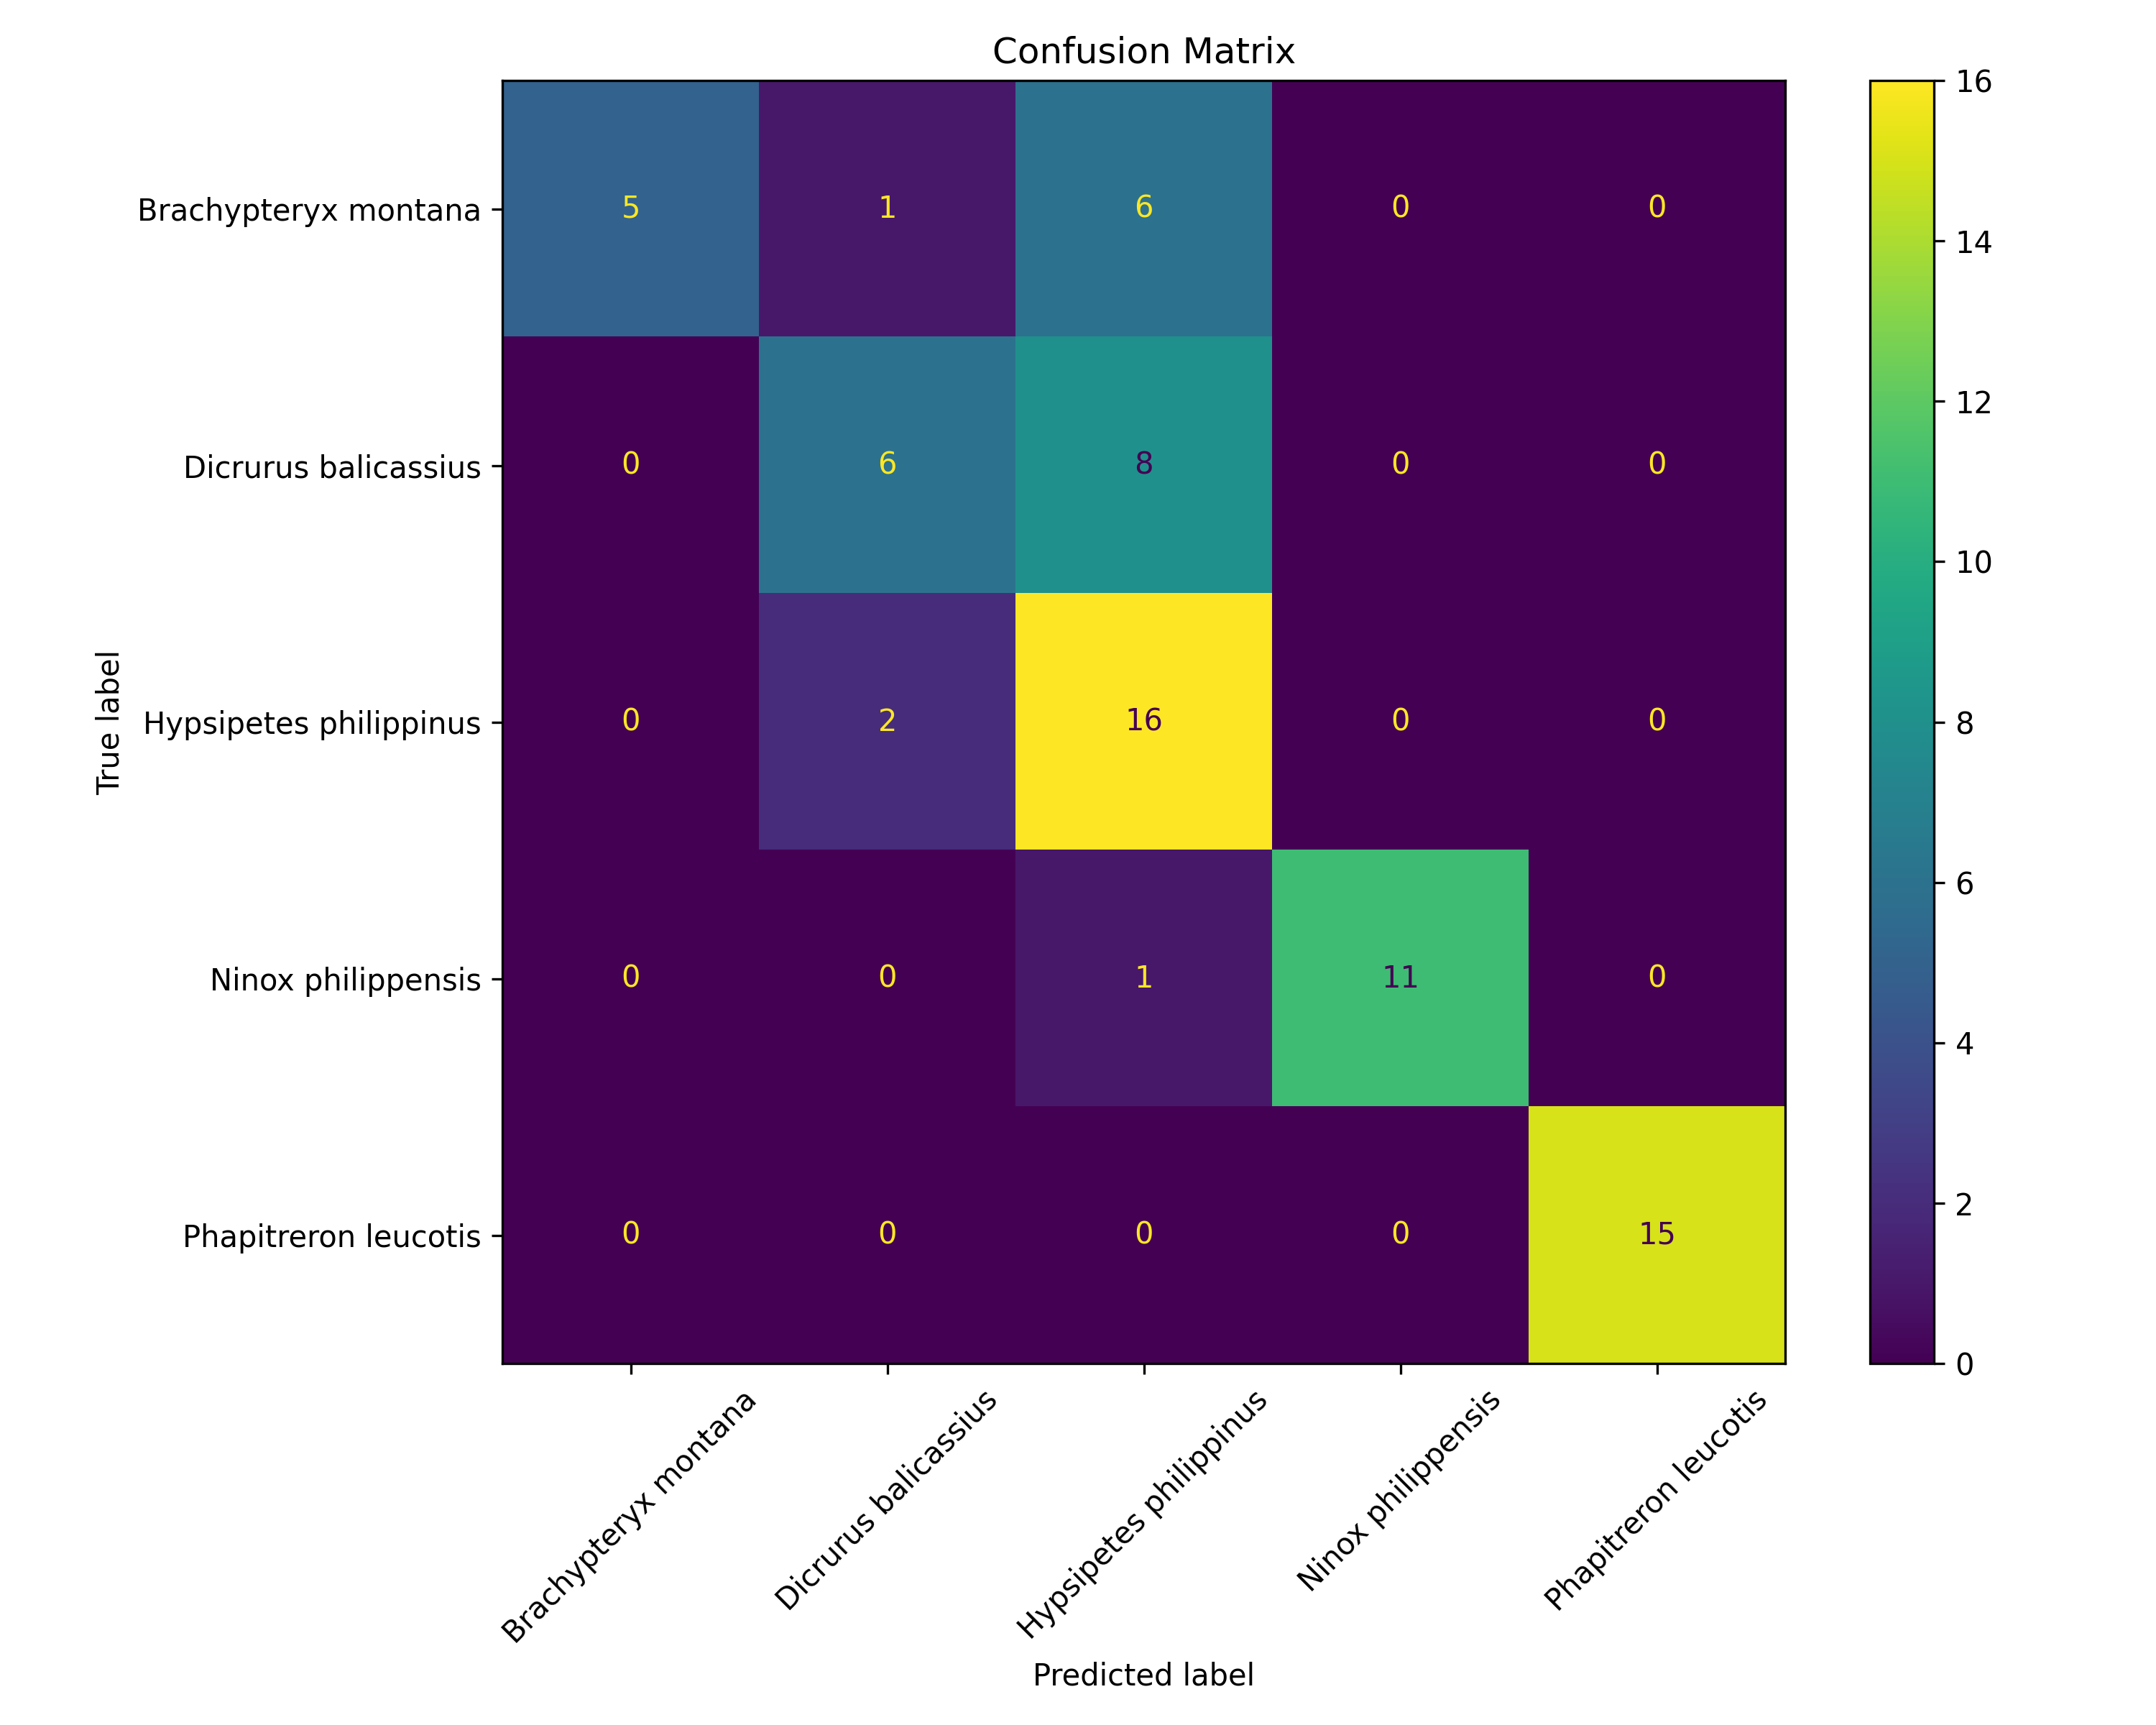
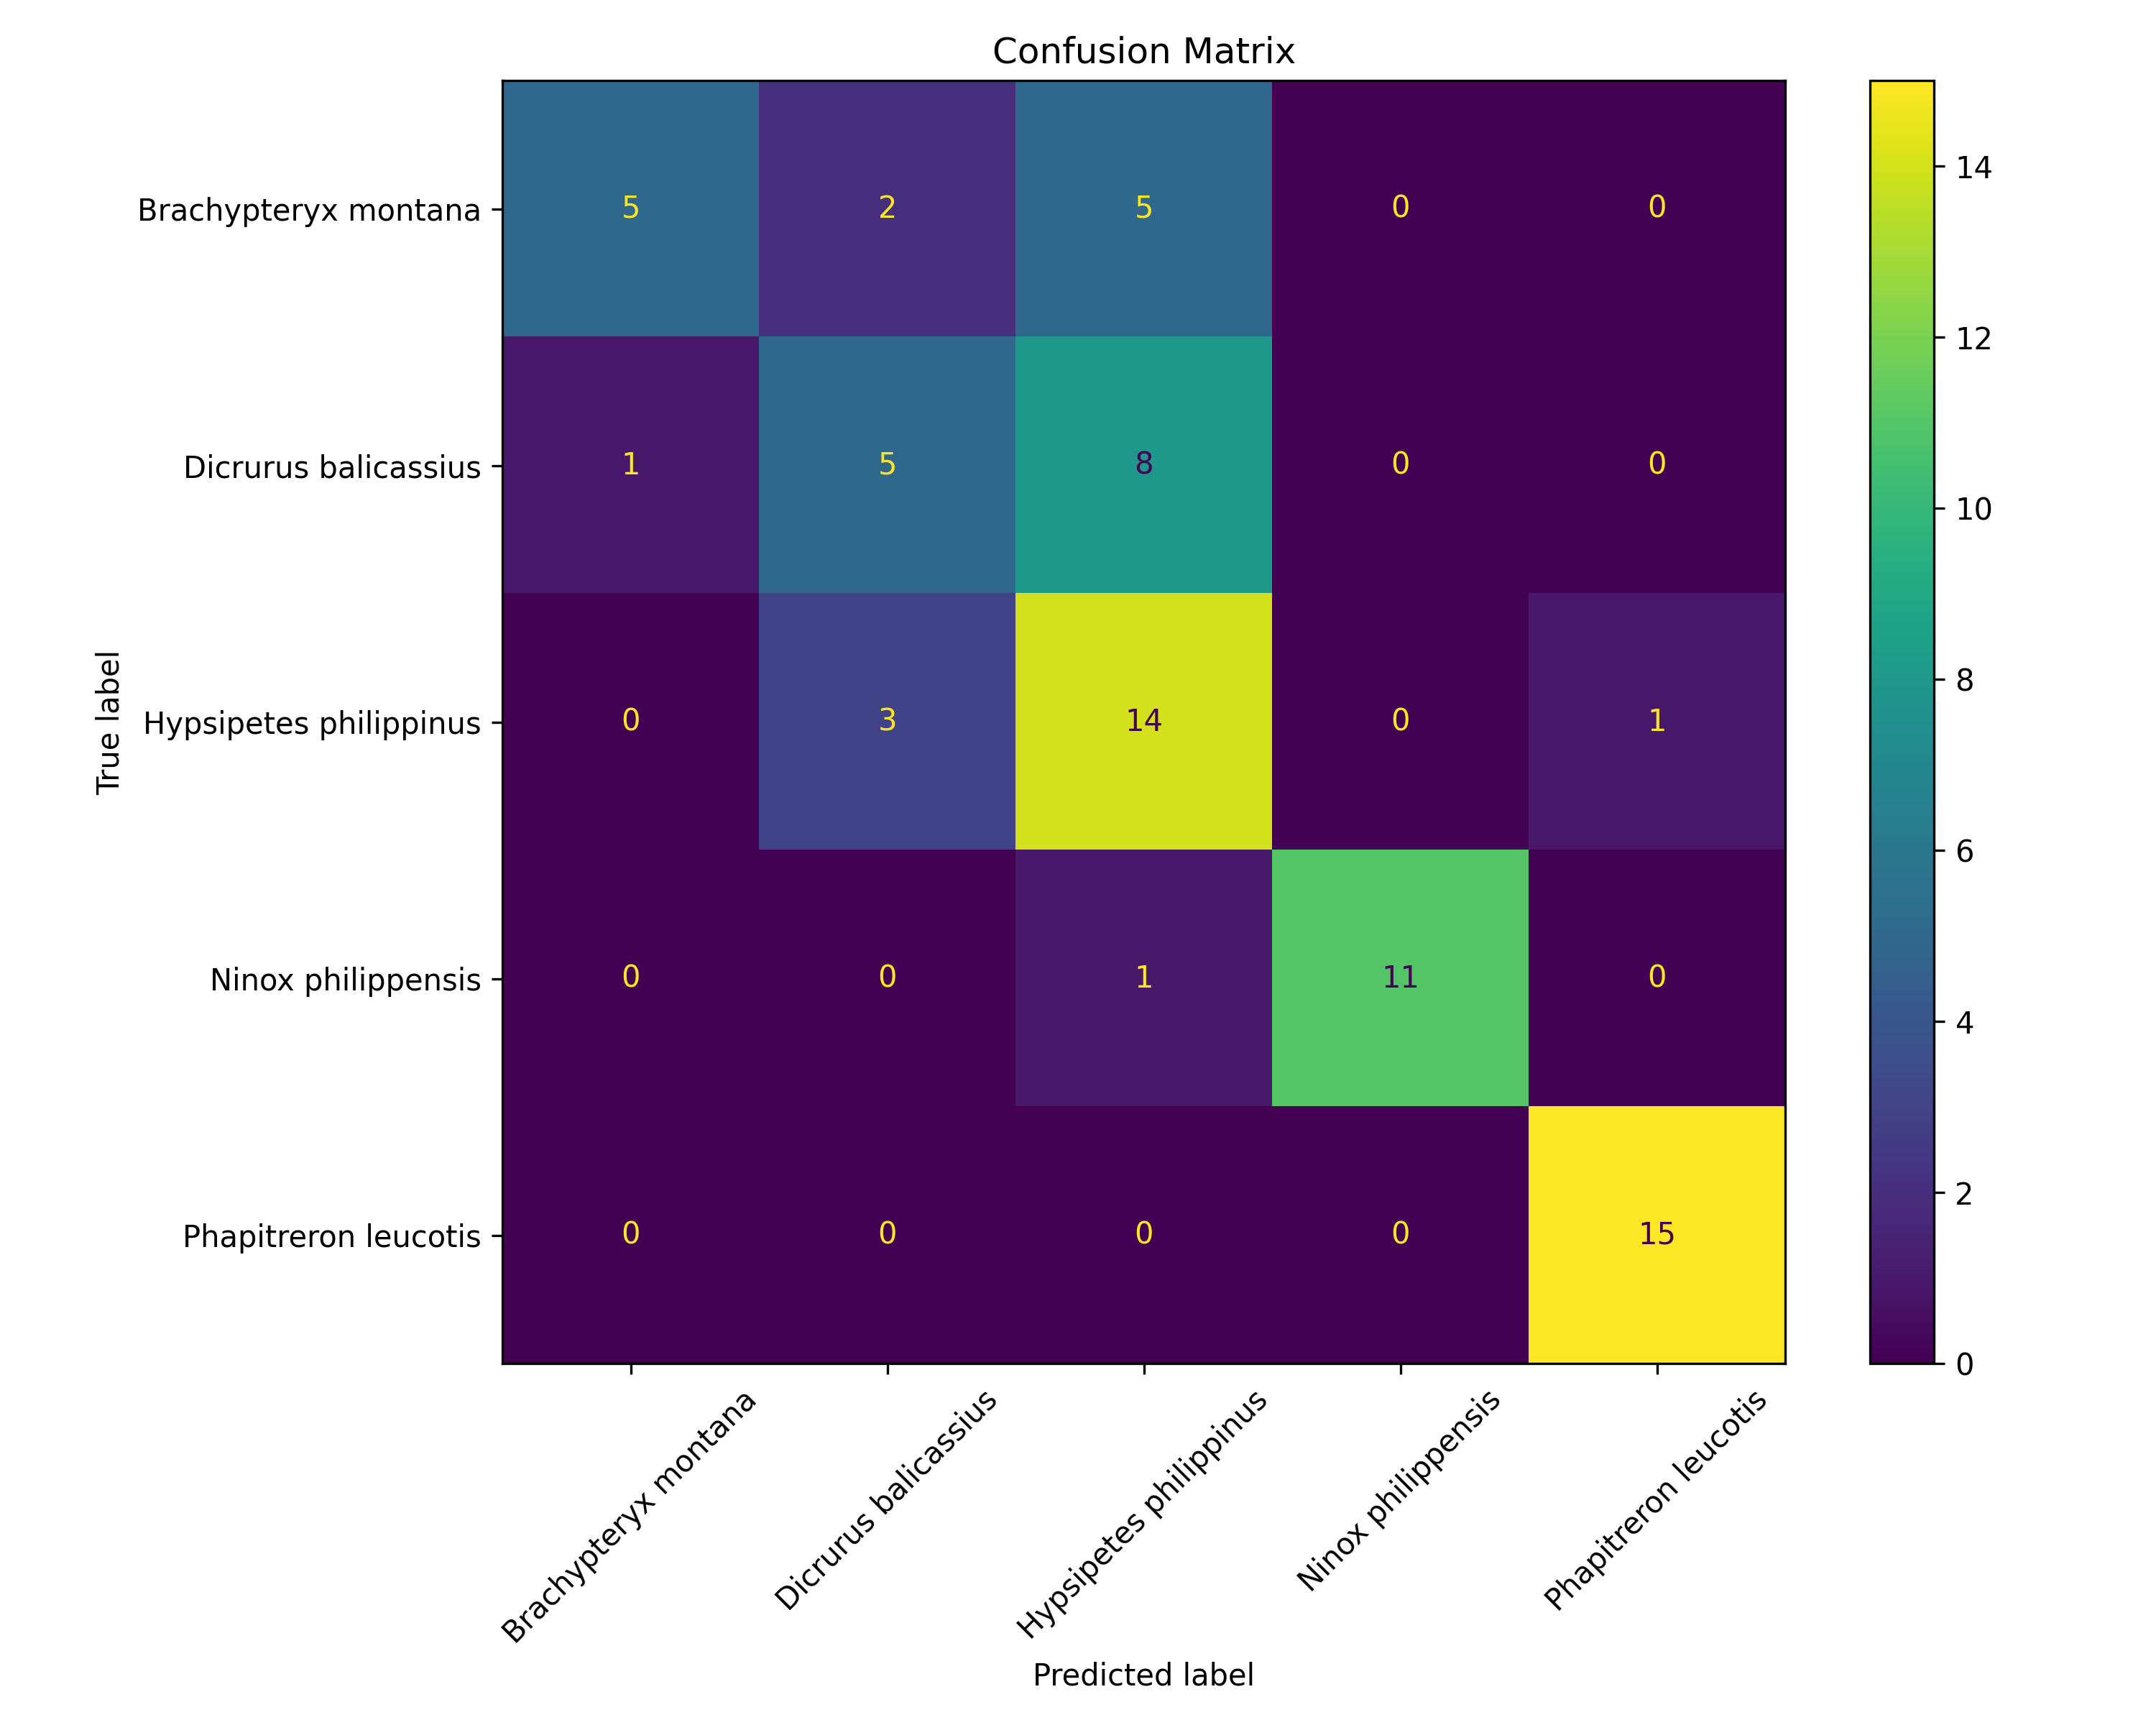
added untuned model results

Changed region(s): [[0.682, 0.625, 0.837, 0.8125], [0.465, 0.3438, 0.589, 0.5]]

diff --git a/paper/main.tex b/paper/main.tex
@@ -7,6 +7,7 @@
 \usepackage{booktabs}
 \usepackage{multirow}
 
+
 \begin{document}
 
 \title{Classification of Selected Philippine Bird Species Using Acoustic Features and Classical Machine Learning}
@@ -50,7 +51,7 @@ This study builds on previous work by applying classical machine learning models
 
 \section{Methodology}
 
-The study followed a structured machine learning workflow consisting of dataset collection, pre-processing, feature extraction, model training, hyperparameter tuning, segment-level extraction, added time-domain features, majority voting, and final evaluation by comparing the performance between different models.
+The study followed a structured machine learning workflow consisting of dataset collection, pre-processing, feature extraction, model training, hyperparameter tuning, segment-level extraction, localized feature extraction, majority voting, and final evaluation by comparing the performance between different models.
 
 \subsection{Dataset Collection}
 
@@ -89,12 +90,11 @@ Performance was measured using accuracy, macro precision, macro recall, macro F1
 
 \subsection{Segment-Level Extraction}
 
-Inspired by syllable-based segmentation approaches in previous bird recognition studies \cite{fagerlund2007}, the processed audio clips were further divided into smaller segment units prior to feature extraction. Specifically, each processed 10-second audio clips were divided into overlapping segments of 5 seconds with a 2.5 second overlap. This approach allowed multiple local feature vectors to be extracted from each recording while preserving recording-level grouping during evaluation.. Furthermore, each segment was treated as an independent training sample with the same species label as the original recording.
+Inspired by syllable-based segmentation approaches in previous bird recognition studies \cite{fagerlund2007}, the processed audio clips were further divided into smaller segment units prior to feature extraction. Specifically, each processed 10-second audio clips were divided into overlapping segments of 5 seconds with a 2.5 second overlap. This approach allowed multiple local feature vectors to be extracted from each recording while preserving recording-level grouping during evaluation. Furthermore, each segment was treated as an independent training sample with the same species label as the original recording.
 
 \subsection{Time-Domain Features}
 
-Aside from the MFCC and spectral features, each segment additionally included time-domain features to supplement the existing features set. These features included:
-
+In the segmented processing approach, the same MFCC, spectral, and temporal features were used as in the baseline. However, to better capture local acoustic characteristics, they were extracted independently for each segment to preserve local temporal structure. The extracted time-domain features:
 \begin{itemize}
     \item \textbf{Signal energy} (RMS mean and standard deviation): measures the average energy of each segment and captures loudness variations across bird calls and silent intervals.
 
@@ -111,11 +111,11 @@ These features were extracted per segment without temporal averaging, preserving
 
 \subsection{Majority Voting}
 
-To allow fair comparison between the baseline and the segmented recording-level model, the aggregated segment-level predictions were converted back to recording-level using majority voting. Specifically, all segments from the same audio clip were grouped together, and the most frequently predicted species label among the segments became the final predicted label for the entire audio clip.
+To allow fair comparison between the baseline and the segmented model, the aggregated segment-level predictions were converted back to recording-level using majority voting. Specifically, all segments from the same audio clip were grouped together, and the most frequently predicted species label among the segments became the final predicted label for the entire audio clip.
 
 \subsection{Final Comparison: Baseline vs. Segment-Level}
 
-The final comparison between the baseline model (trained on recording-level features) and the segmented recording-level model (trained on segment-level features with majority voting) was performed using the held-out test set. Both models were evaluated using the same test recordings, and their performance metrics were compared to assess whether segment-level feature extraction and classification provided any improvement over the baseline approach.
+The final comparison between the baseline model (trained on recording-level features) and the segmented model (trained on segment-level features with majority voting) was performed using the held-out test set. Both models were evaluated using the same test recordings, and their performance metrics were compared to assess whether segment-level feature extraction and classification provided any improvement over the baseline approach.
 
 \section{Results and Discussion}
 
@@ -185,13 +185,45 @@ SVM-RBF tuned & 0.7503 \\
 
 Although tuning improved the best cross-validation score, the held-out test results remained moderate. This suggests that model performance was limited not only by hyperparameter choice, but also by the size and variability of the available recordings.
 
-\subsection{Tuned Recording-Level Baseline Results}
-
-The final held-out test set contained 71 recordings. The baseline model correctly classified 53 recordings and misclassified 18, producing an accuracy of 0.72 and a macro F1-score of 0.71. Table~\ref{tab:classification-report} presents the per-class results.
+\subsection{Untuned Baseline Results}
 
 \begin{table}
 \centering
-\caption{Classification report of the tuned recording-level baseline model on the held-out test set.}
+\caption{Classification report of the untuned baseline model on the held-out test set.}
+\label{tab:untuned_baseline_report}
+\begin{tabular}{lcccc}
+\toprule
+\textbf{Species} & \textbf{Precision} & \textbf{Recall} & \textbf{F1-score} & \textbf{Support} \\
+\midrule
+Brachypteryx montana     & 0.83 & 0.42 & 0.56 & 12 \\
+Dicrurus balicassius     & 0.50 & 0.36 & 0.42 & 14 \\
+Hypsipetes philippinus   & 0.50 & 0.78 & 0.61 & 18 \\
+Ninox philippensis       & 1.00 & 0.92 & 0.96 & 12 \\
+Phapitreron leucotis     & 0.94 & 1.00 & 0.97 & 15 \\
+\midrule
+Accuracy & \multicolumn{3}{c}{0.70} & 71 \\
+Macro average & 0.75 & 0.69 & 0.70 & 71 \\
+Weighted average & 0.73 & 0.70 & 0.70 & 71 \\
+\bottomrule
+\end{tabular}
+\end{table}
+
+Table~\ref{tab:untuned_baseline_report} results show that the untuned baseline model achieved moderate classification performance, with an overall accuracy of 0.70 and macro F1-score of 0.70.
+
+\begin{figure}
+\centering
+\includegraphics[width=0.75\linewidth]{figures/confusion_matrix.png}
+\caption{Confusion matrix of the untuned baseline model on the held-out test set.}
+\label{fig:baseline_cm}
+\end{figure}
+
+However, Figure~\ref{fig:baseline_cm} shows that several recordings of \textit{Brachypteryx montana} and \textit{Dicrurus balicassius} were misclassified as \textit{Hypsipetes philippinus}, suggesting that the global recording-level representation was not always sufficient to captureaco ustic differences between some bird vocalizations.
+\subsection{Tuned Baseline Results}
+The final held-out test set contained 71 recordings. The baseline model correctly classified 53 recordings and misclassified 18, producing an accuracy of 0.72 and a macro F1-score of 0.71. Table~\ref{tab:tuned_baseline_classification_report} presents the per-class results.
+
+\begin{table}
+\centering
+\caption{Classification report of the tuned baseline model on the held-out test set.}
 \label{tab:tuned_baseline_classification_report}
 \begin{tabular}{lcccc}
 \toprule
@@ -215,16 +247,44 @@ The model performed best on \textit{Ninox philippensis} and \textit{Phapitreron 
 \begin{figure}
 \centering
 \includegraphics[width=0.80\textwidth]{figures/tuned_confusion_matrix.png}
-\caption{Confusion matrix of the tuned recording-level baseline model on the held-out test set.}
-\label{fig:confusion-matrix}
+\caption{Confusion matrix of the tuned baseline model on the held-out test set.}
+\label{fig:tuned-baseline-confusion-matrix}
 \end{figure}
 
-The confusion matrix in Figure~\ref{fig:confusion-matrix} confirms that the model was more reliable for some species than others. The observed errors may be attributed to overlapping acoustic characteristics, background noise, recording-condition differences, and the limited number of training samples. Overall, the final accuracy of approximately 72\% indicates that handcrafted acoustic features with classical machine learning provide a feasible baseline for selected Philippine bird species classification, but further improvement is needed for robust field deployment.
+The confusion matrix in Figure~\ref{fig:tuned-baseline-confusion-matrix} confirms that the model was more reliable for some species than others. The observed errors may be attributed to overlapping acoustic characteristics, background noise, recording-condition differences, and the limited number of training samples. Overall, the final accuracy of approximately 72\% indicates that handcrafted acoustic features with classical machine learning provide a feasible baseline for selected Philippine bird species classification, but further improvement is needed for robust field deployment.
 
-\subsection{Tuned Segmented-Level Results}
+\subsection{Untuned Segmented Aggregated Results}
+The untuned segmented aggregated model achieved better classification performance compared to the untuned baseline. Figure~\ref{fig:untuned_segment_cm} and Table~\ref{tab:untuned_segment_report} summarize the performance of the segmented aggregated model on the held-out test set.
+\begin{table}
+\centering
+\caption{Classification report of the untuned segmented aggregated model on the held-out test set.}
+\label{tab:untuned_segment_report}
+\begin{tabular}{lcccc}
+\toprule
+\textbf{Species} & \textbf{Precision} & \textbf{Recall} & \textbf{F1-score} & \textbf{Support} \\
+\midrule
+Brachypteryx montana     & 1.00 & 0.67 & 0.80 & 12 \\
+Dicrurus balicassius     & 0.60 & 0.43 & 0.50 & 14 \\
+Hypsipetes philippinus   & 0.62 & 0.89 & 0.73 & 18 \\
+Ninox philippensis       & 1.00 & 1.00 & 1.00 & 12 \\
+Phapitreron leucotis     & 0.93 & 0.93 & 0.93 & 15 \\
+\midrule
+Accuracy & \multicolumn{3}{c}{0.79} & 71 \\
+Macro average & 0.83 & 0.78 & 0.79 & 71 \\
+Weighted average & 0.81 & 0.79 & 0.78 & 71 \\
+\bottomrule
+\end{tabular}
+\end{table}
+\begin{figure}
+\centering
+\includegraphics[width=0.75\linewidth]{figures/segment_recording_level_confusion_matrix.png}
+\caption{Confusion matrix of the untuned segmented aggregated model on the held-out test set.}
+\label{fig:untuned_segment_cm}
+\end{figure}
 
-Table~\ref{tab:baseline-vs-segmented} compares the best recording-level baseline with the segmented aggregated model. The segmented approach improved accuracy from 71.8\% to 78.9\% and macro F1-score from 0.71 to 0.79.
+Overall, the segmented aggregated approach achieved an accuracy of 0.79 and a macro F1-score of 0.79, outperforming the untuned baseline. These results suggest that segment-based feature extraction preserved localized vocal characteristics that may have been diluted by recording-level feature averaging.
 
+\subsection{Tuned Segmented Aggregated Results}
 \begin{table}
 \centering
 \caption{Comparison of baseline and segmented-level models on the held-out test set.}
@@ -239,6 +299,8 @@ Segmented aggregated (Extra Trees tuned) & recording & 0.789 & 0.792 \\
 \end{tabular}
 \end{table}
 
+Table~\ref{tab:baseline-vs-segmented} compares the best baseline with the segmented aggregated model. The segmented approach improved accuracy from 71.8\% to 78.9\% and macro F1-score from 0.71 to 0.79.
+
 Figure~\ref{fig:segmented-cm} shows the confusion matrix of the tuned segmented aggregated model.
 
 \begin{figure}
@@ -248,19 +310,18 @@ Figure~\ref{fig:segmented-cm} shows the confusion matrix of the tuned segmented 
 \label{fig:segmented-cm}
 \end{figure}
 
-The confusion matrices (Figures~\ref{fig:confusion-matrix} and \ref{fig:segmented-cm}) reveal that \textit{Brachypteryx montana} and \textit{Dicrurus balicassius} were most frequently misclassified as \textit{Hypsipetes philippinus}. This may be due to acoustic overlap in the frequency range of their calls, as all three species produce mid-frequency vocalizations with similar temporal patterns. Additionally, the limited number of training samples for \textit{Brachypteryx montana} may have contributed to the model's difficulty in learning distinctive features for this species. 
+The confusion matrices (Figures~\ref{fig:tuned-baseline-confusion-matrix} and \ref{fig:segmented-cm}) reveal that \textit{Brachypteryx montana} and \textit{Dicrurus balicassius} were most frequently misclassified as \textit{Hypsipetes philippinus}. This may be due to acoustic overlap in the frequency range of their calls, as all three species produce mid-frequency vocalizations with similar temporal patterns. Additionally, the limited number of training samples for \textit{Brachypteryx montana} may have contributed to the model's difficulty in learning distinctive features for this species. 
 
-Overall, the final accuracy of approximately 75\% for the baseline and 79\% for the segmented-level model suggests that local acoustic features captured in shorter segments may provide more information than global recording-level features. However, the confusion between certain species indicates that further feature engineering or additional data may be needed to better differentiate acoustically similar species.
-
+Overall, the final accuracy of approximately 72\% for the baseline and 79\% for the segmented-level model suggests that local acoustic features captured in shorter segments may provide more information than global recording-level features. However, the confusion between certain species indicates that further feature engineering or additional data may be needed to better differentiate acoustically similar species.
 \section{Conclusion and Future Work}
 
-This study developed and evaluated a classical machine learning pipeline for classifying selected Philippine bird species from audio recordings. Recordings were collected from Xeno-canto, processed into standardized audio clips, and represented using handcrafted acoustic features such as MFCCs, spectral descriptors, and temporal features. Several traditional classifiers were compared, including Logistic Regression, SVM, Random Forest, Extra Trees, Gradient Boosting, K-Nearest Neighbors, and XGBoost. The baseline recording-level model, using handcrafted acoustic features, achieved an accuracy of 71.8\% and a macro F1-score of 0.71 on a held-out test set of 71 recordings.
+This study developed and evaluated a classical machine learning pipeline for classifying selected Philippine bird species from audio recordings. Recordings were collected from Xeno-canto, processed into standardized audio clips, and represented using handcrafted acoustic features such as MFCCs, spectral descriptors, and temporal features. Several traditional classifiers were compared, including Logistic Regression, SVM, Random Forest, Extra Trees, Gradient Boosting, K-Nearest Neighbors, and XGBoost. The tuned baseline model, using handcrafted acoustic features, achieved an accuracy of 71.8\% and a macro F1-score of 0.71 on a held-out test set of 71 recordings.
 
-To better capture local acoustic characteristics, the study also implemented a segment-level feature extraction approach (5-second segments with 2.5-second overlap), added five time-domain features,  and applied majority voting to aggregate segment-level predictions back to recording-level. This segmented-level model achieved an accuracy of 78.9\% and a macro F1-score of 0.79 on the same held-out test set, demonstrating that segment-level features can provide additional information for classification compared to recording-level features.
+To better capture local acoustic characteristics, the study also implemented a segment-level feature extraction approach (5-second segments with 2.5-second overlap), and applied majority voting to aggregate segment-level predictions back to recording-level. This tuned segmented aggregated model achieved an accuracy of 78.9\% and a macro F1-score of 0.79 on the same held-out test set, demonstrating that segment-level features can provide additional information for classification compared to recording-level features.
 
-The results showed that tree-based ensemble models performed competitively during cross-validation. Random Forest achieved the highest mean accuracy among the baseline models, while Extra Trees achieved the highest mean macro F1-score. After hyperparameter tuning, XGBoost obtained the highest cross-validation macro F1-score among the recording-level baseline models. On the other hand, the tuned segmented aggregated model, which is Extra Trees, achieved the best overall held-out test performance, with an accuracy of 0.789 and a macro F1-score of 0.792.
+The results showed that tree-based ensemble models performed competitively during cross-validation. Random Forest achieved the highest mean accuracy among the baseline models, while Extra Trees achieved the highest mean macro F1-score. After hyperparameter tuning, XGBoost obtained the highest cross-validation macro F1-score among the baseline models. On the other hand, the tuned segmented aggregated model, which is Extra Trees, achieved the best overall held-out test performance, with an accuracy of 0.789 and a macro F1-score of 0.792.
 
-These results demonstrate that segmentation with recording-level aggregation is a fairer and more effective evaluation method for bird audio classification when using handcrafted features. Furthermore, the improvement is particularly visible for species with short calls or vocalizations that were not well captured by the recording-level features. The confusion matrices revealed that certain species were more frequently misclassified, likely due to acoustic similarity and limited training samples.
+These results demonstrate that segmentation with aggregation provides a fairer comparison and a more informative acoustic representation for bird audio classification when using handcrafted features. Furthermore, the improvement is particularly visible for species with short calls or vocalizations that were not well captured by the recording-level features. The confusion matrices revealed that certain species were more frequently misclassified, likely due to acoustic similarity and limited training samples.
 
 Future work may improve the system by increasing the number of recordings, adding more bird species, applying more advanced noise reduction, and using syllable-level or segment-level classification. Deep learning models such as convolutional neural networks on mel spectrograms may also be explored and compared with the classical machine learning baseline developed in this study.
 